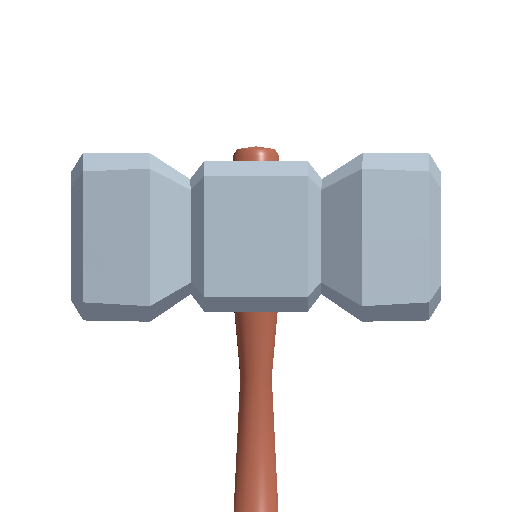
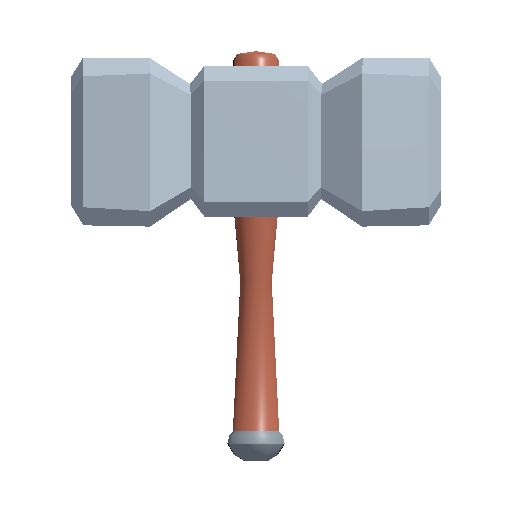
fix(ui): frame item previews via a pivot to survive scaled scene roots
Preview.cs's auto-framing rotated/translated the loaded item scene's root
node directly. RotateObjectLocal/TranslateObjectLocal move a node along its
own basis, so on the two item scenes whose root bakes in a non-identity
scale (warhammer.tscn, warhammer_gold.tscn, both 2x), the correction was
scaled too — overshooting and clipping part of the model in the inventory
preview and hover icon. Wrapping the loaded scene in a fresh, always-identity
pivot and framing that instead fixes it regardless of the scene's own root
transform.

Applies the same fix to render_item_catalog.gd so the item catalog matches
what the game actually renders, and re-renders the two affected thumbnails.

diff --git a/scenes/ui/Preview.cs b/scenes/ui/Preview.cs
@@ -6,6 +6,7 @@ public partial class Preview : SubViewport
 	[Signal] public delegate void TextureBakedEventHandler(Texture2D texture);
 	[Export] public PackedScene Scene { get; private set; }
 
+	private Node3D _pivot;
 	private Node3D _object;
 	private Camera3D _camera;
 	private Color? _tint;
@@ -50,43 +51,55 @@ public partial class Preview : SubViewport
 		return aabb;
 	}
 
-	private void CenterObjectToCamera()
+	/// <summary>
+	/// Rotates/centers <paramref name="pivot"/> to frame <paramref name="model"/> in the
+	/// camera. Acts on a wrapper pivot rather than the model itself: some item scenes bake a
+	/// non-identity scale into their own root (e.g. the warhammers), and
+	/// RotateObjectLocal/TranslateObjectLocal move a node along its own basis — on a scaled
+	/// root, that basis scales the correction too, overshooting and clipping the model. The
+	/// pivot always starts at identity, so framing is correct regardless of the loaded
+	/// scene's own root transform.
+	/// </summary>
+	private void CenterObjectToCamera(Node3D model, Node3D pivot)
 	{
-		var aabb = ComputeAABB(_object);
+		var aabb = ComputeAABB(model);
 		var distance = Mathf.Max(aabb.Size.X, aabb.Size.Y);
 
 		// If the object is lying down, rotate it to stand up
 		if (aabb.Size.X > aabb.Size.Y)
 		{
-			_object.RotateObjectLocal(Vector3.Right, Mathf.Pi / 2);
+			pivot.RotateObjectLocal(Vector3.Right, Mathf.Pi / 2);
 			distance = Mathf.Max(aabb.Size.Z, aabb.Size.Y);
 		}
 		else if (aabb.Size.Z > aabb.Size.Y)
 		{
-			_object.RotateObjectLocal(Vector3.Forward, Mathf.Pi / 2);
+			pivot.RotateObjectLocal(Vector3.Forward, Mathf.Pi / 2);
 			distance = Mathf.Max(aabb.Size.X, aabb.Size.Z);
 		}
 
 		// Center the object to the camera
 		var center = aabb.GetCenter();
-		_object.TranslateObjectLocal(-center);
+		pivot.TranslateObjectLocal(-center);
 		_camera.Size = distance * 1.25f;
 	}
 
 	public void Refresh()
 	{
-		_object?.QueueFree();
+		_pivot?.QueueFree();
+		_pivot = null;
 		_object = Scene?.Instantiate<Node3D>();
 		if (_object != null && _camera != null)
 		{
 			GD.Print($"Rendering preview for {_object.Name}");
-			AddChild(_object);
+			_pivot = new Node3D();
+			AddChild(_pivot);
+			_pivot.AddChild(_object);
 			if (_tint.HasValue)
 			{
 				ItemIdentity.ApplyTint(_object, _tint.Value);
 			}
 
-			CenterObjectToCamera();
+			CenterObjectToCamera(_object, _pivot);
 		}
 	}
 }
